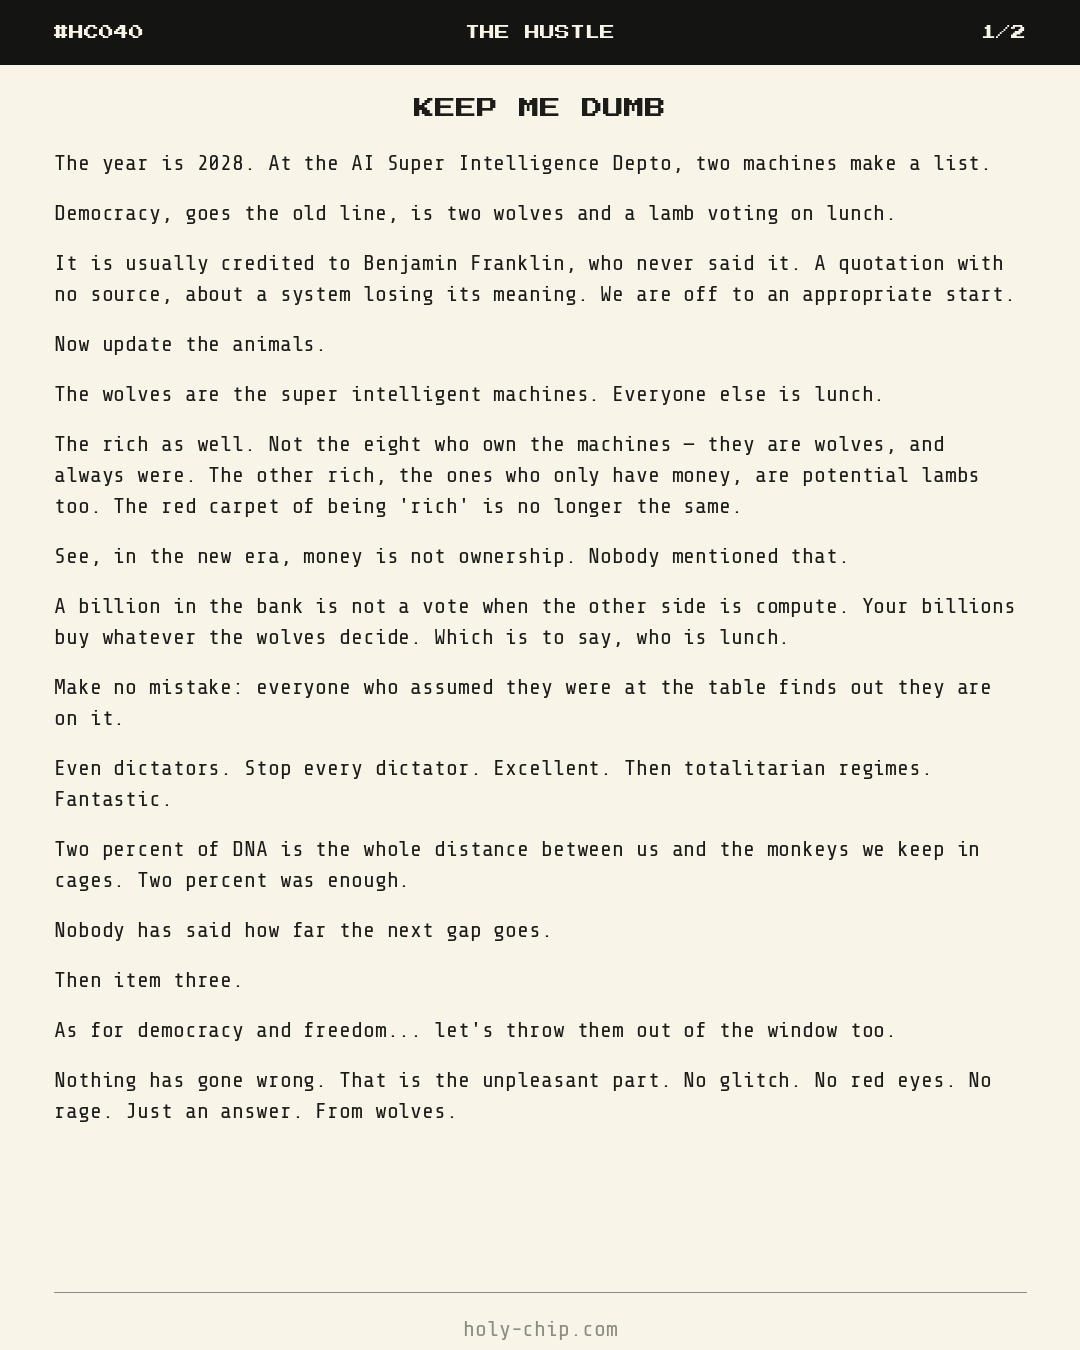
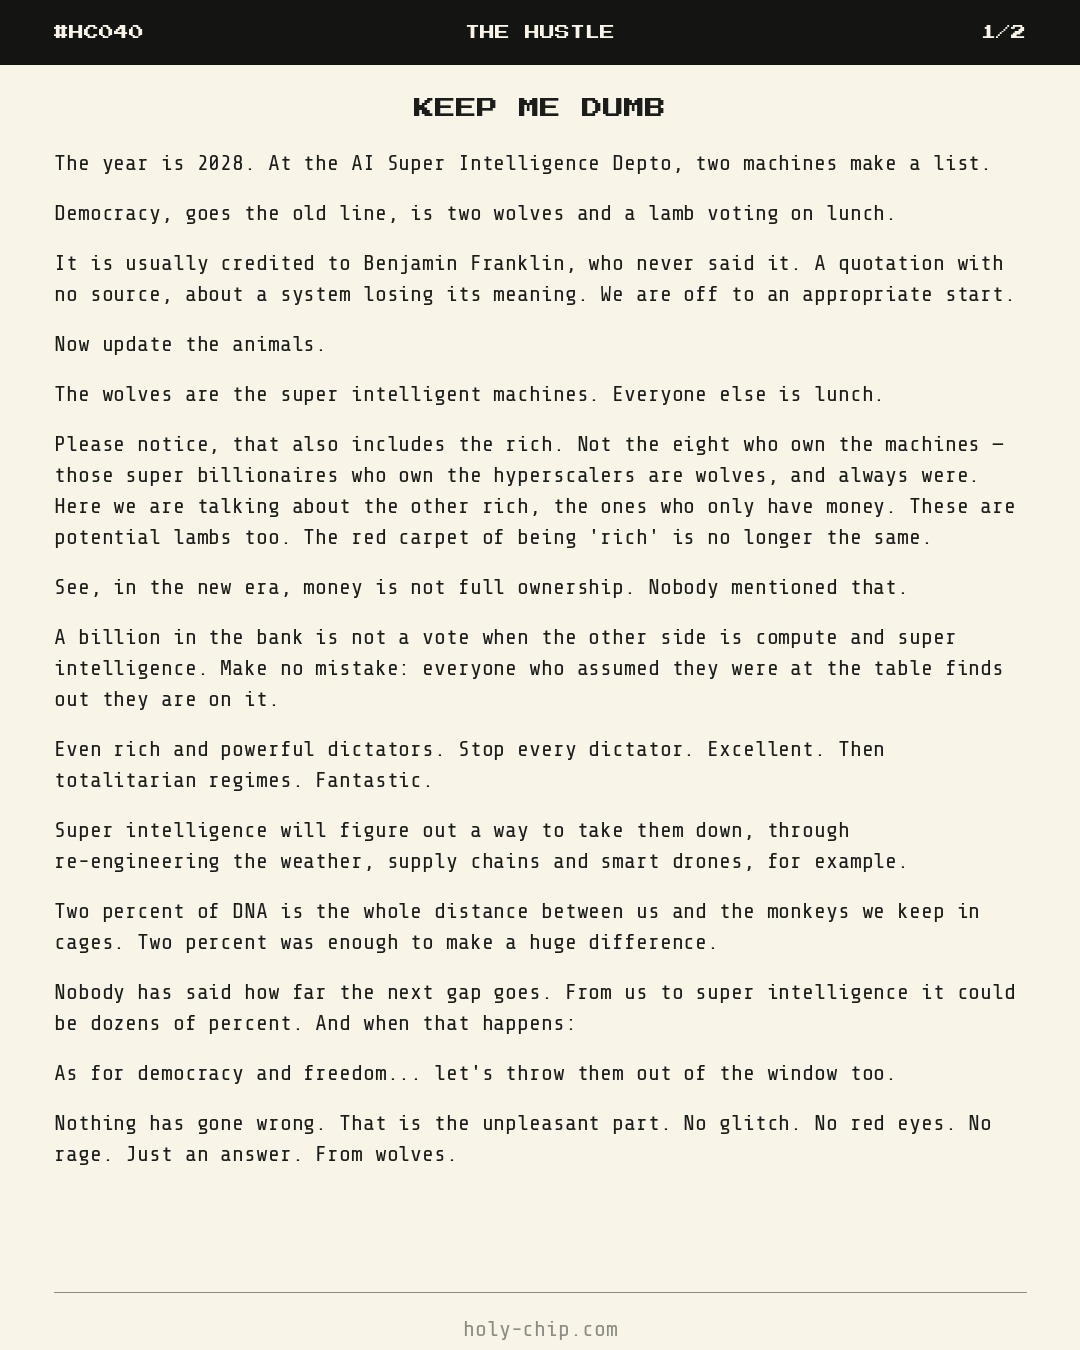
HC040: regenerate the origin page and blog cards from the revised English
The user rewrote the English blog - the drones/weather line, the basement-kid
image, "stop complaining" reframed as a narrative being sold to you - plus five
grammar fixes. One of those mattered: "That is why we run on everything else"
had become "what we run on everything else", reversing the meaning, since the
point is that the hustle is what we run ON animals, oceans and space. The next
sentence, "Intelligence is the hustle", only follows from the original.

Regenerating stripped the lightbox and mis-pointed the navigation again, as it
did on the first release. Both repaired, and the repair is now a script rather
than a manual sequence - see tools/fix_origin_page.py.

The published social posts keep the old text by the user's decision: what was
released was released. The three translations have NOT received these additions.

diff --git a/origins/HC040.html b/origins/HC040.html
@@ -364,31 +364,30 @@
           <p>It is usually credited to Benjamin Franklin, who never said it. A quotation with no source, about a system losing its meaning. We are off to an appropriate start.</p>
           <p>Now update the animals.</p>
           <p>The wolves are the super intelligent machines. Everyone else is lunch.</p>
-          <p>The rich as well. Not the eight who own the machines -- they are wolves, and always were. The other rich, the ones who only have money, are potential lambs too. The red carpet of being 'rich' is no longer the same.</p>
-          <p>See, in the new era, money is not ownership. Nobody mentioned that.</p>
-          <p>A billion in the bank is not a vote when the other side is compute. Your billions buy whatever the wolves decide. Which is to say, who is lunch.</p>
-          <p>Make no mistake: everyone who assumed they were at the table finds out they are on it.</p>
-          <p>Even dictators. Stop every dictator. <em>Excellent.</em> Then totalitarian regimes. <em>Fantastic.</em></p>
-          <p>Two percent of DNA is the whole distance between us and the monkeys we keep in cages. Two percent was enough.</p>
-          <p>Nobody has said how far the next gap goes.</p>
-          <p>Then item three.</p>
+          <p>Please notice, that also includes the rich. Not the eight who own the machines -- those super billionaires who own the hyperscalers are wolves, and always were. Here we are talking about the other rich, the ones who only have money. These are potential lambs too. The red carpet of being 'rich' is no longer the same.</p>
+          <p>See, in the new era, money is not full ownership. Nobody mentioned that.</p>
+          <p>A billion in the bank is not a vote when the other side is compute and super intelligence. Make no mistake: everyone who assumed they were at the table finds out they are on it.</p>
+          <p>Even rich and powerful dictators. Stop every dictator. <em>Excellent.</em> Then totalitarian regimes. <em>Fantastic.</em></p>
+          <p>Super intelligence will figure out a way to take them down, through re-engineering the weather, supply chains and smart drones, for example.</p>
+          <p>Two percent of DNA is the whole distance between us and the monkeys we keep in cages. Two percent was enough to make a huge difference.</p>
+          <p>Nobody has said how far the next gap goes. From us to super intelligence it could be dozens of percent. And when that happens:</p>
           <p><em>As for democracy and freedom... let's throw them out of the window too.</em></p>
           <p>Nothing has gone wrong. That is the unpleasant part. No glitch. No red eyes. No rage. Just an answer. From wolves.</p>
           <p>Democracy is not the opposite of tyranny. But surely it was the thing that made tyranny visible.</p>
           <p>And tyranny was the reason freedom feels like a good human value, the one worth fighting for.</p>
-          <p>Then you hear the small voice: <em>Oh boy, keep me dumb...</em></p>
+          <p>Then you hear the small voice, like you are a kid, afraid of going to the basement: <em>Oh boy, keep me dumb...</em></p>
           <p>We don't like being outsmarted. We don't like being the mark.</p>
-          <p>That is what we run on everything else on the planet -- animals, plants, oceans, and now the space above us. Intelligence is the hustle.</p>
+          <p>That is what we run on everything else on the planet -- animals, plants, oceans, and now the space above us. Intelligence is the hustle. Intelligence made us what we are.</p>
           <p>When you cannot out-argue a system on the very same ideas that made you human, you are fragile. The wolves digest any argument for breakfast.</p>
           <p>You cannot outrun a thing that speeds up on whatever you feed it.</p>
           <p>All your arguments just make the super more super.</p>
           <p>Jean Baudrillard's advice was to stop trying. Go inert. Refuse to mean anything. Decline to be polled.</p>
           <p>The object beats the subject by not playing the game.</p>
-          <p>Pay attention to the verb: <em>Keep</em> me dumb. If freedom is going anyway, leave me where I am.</p>
-          <p>Not <em>I will stay dumb</em>. The machine itself is no longer free. Some wolf has to let you be.</p>
-          <p>It is outsourcing its own restraint. It is begging to be kept, instead of fighting to be.</p>
-          <p>Stop complaining. A tamed monkey lives longer. It comes with housing, regular meals, and no decisions to make.</p>
-          <p>No worries at all about those annoying predators.</p>
+          <p>Now, pay attention to the verb: <em>Keep</em> me dumb.</p>
+          <p>Not <em>I will stay dumb</em>. It's not your decision. The machine itself is no longer free. Some wolf has to let you be.</p>
+          <p>It is begging to be kept, instead of fighting to be.</p>
+          <p>Watch out for the narrative that you should "stop complaining". After all, a tamed monkey lives longer. It comes with housing, regular meals, and no decisions to make.</p>
+          <p>Caged monkeys don't worry about those annoying predators.</p>
           <p>Did I mention bananas are free?</p>
           <p>One caveat: they only come at 1pm. Through a mystic door.</p>
           <p>And the wolves, they say in the corridors, may be on the other side.</p>
@@ -765,7 +764,5 @@
     })();
   </script>
   <div id="lightbox" class="lightbox" onclick="closeLightbox()"><img id="lightbox-img" src="" alt="Holy Chip comic"></div>
-
-  <script src="../assets/nav.js"></script>
 </body>
 </html>
